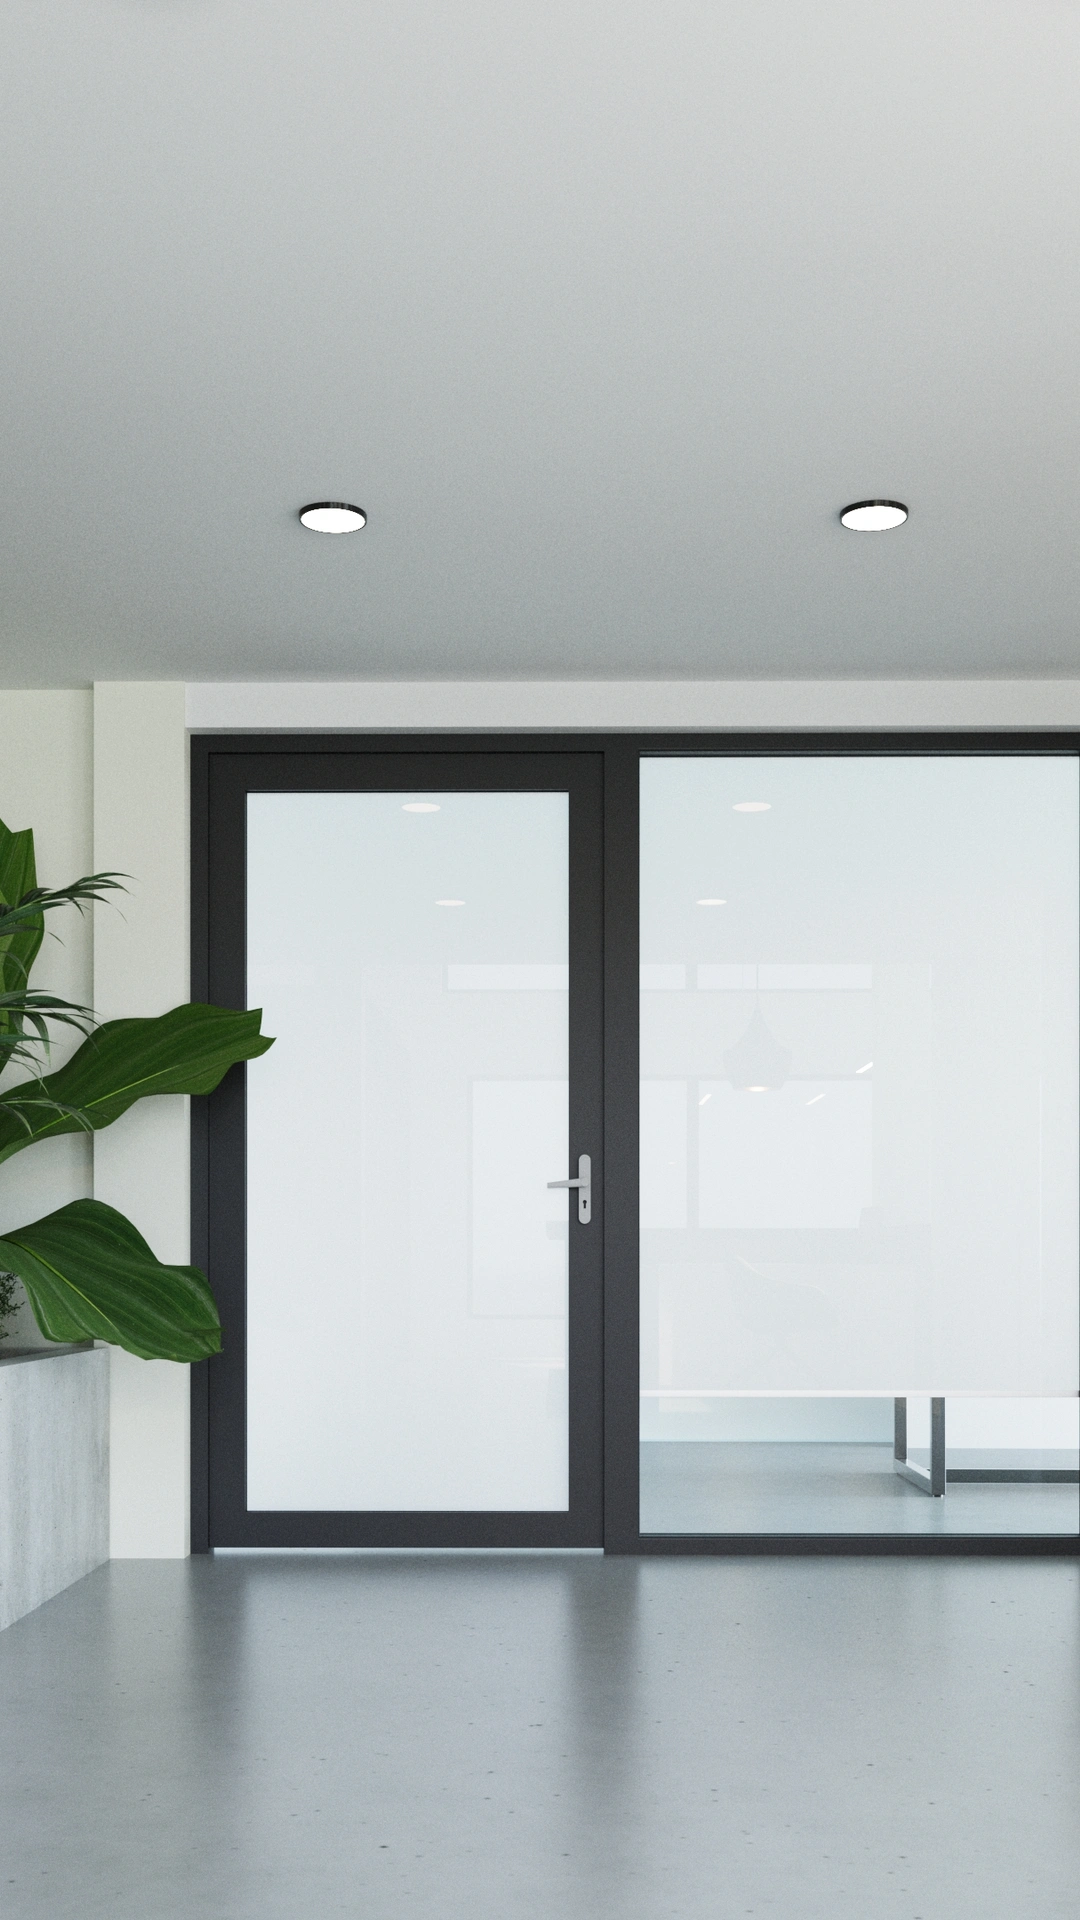
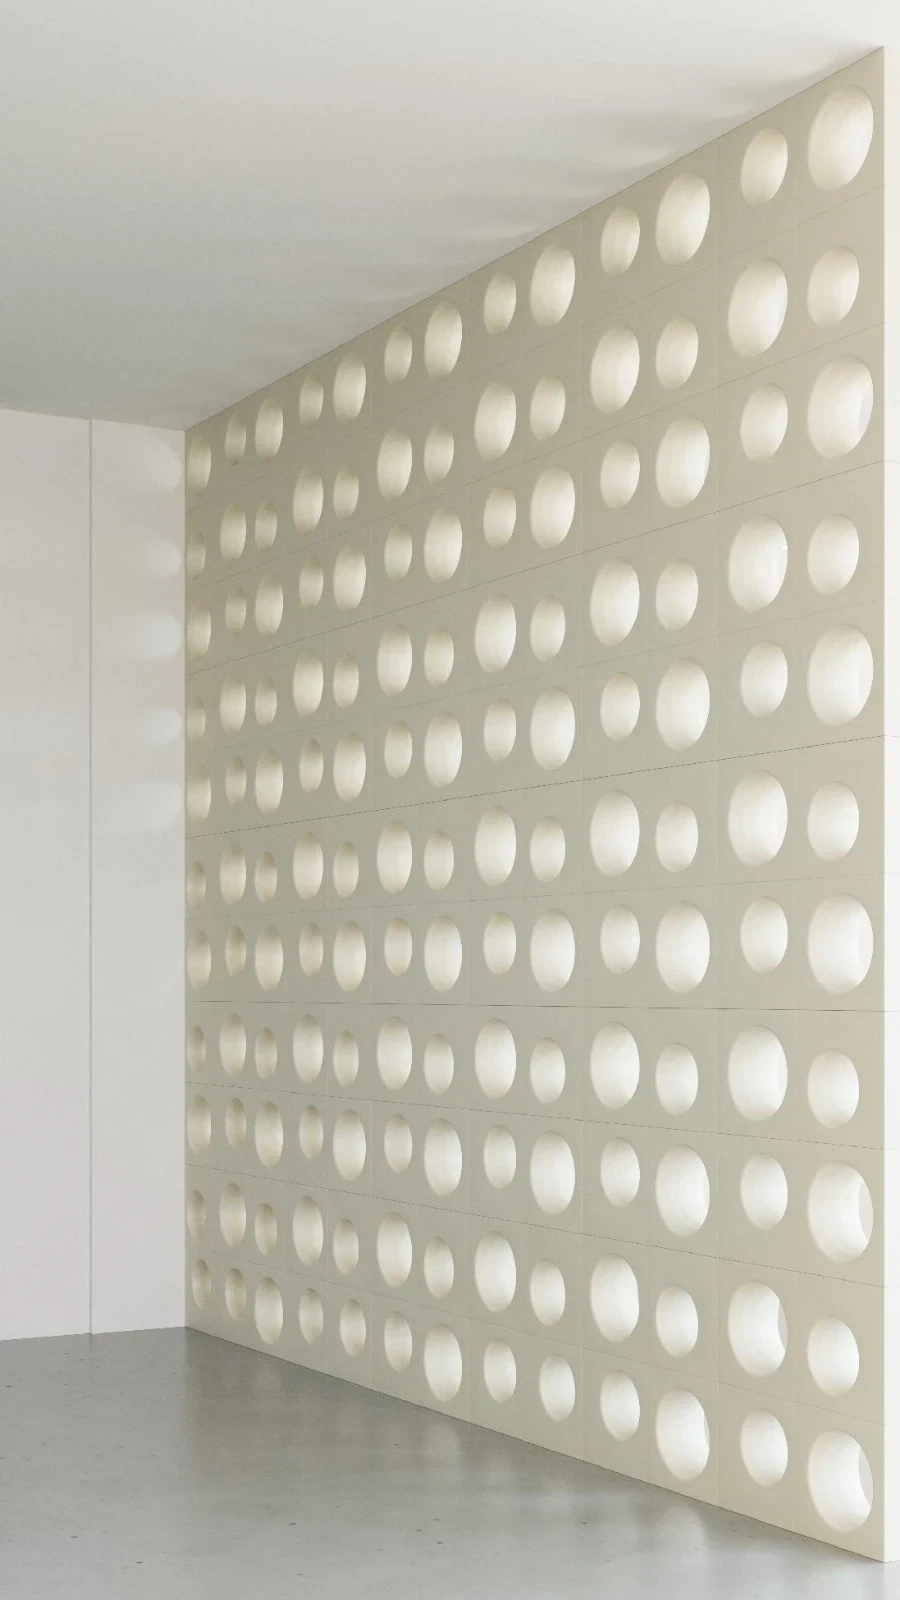
Use the actual vertical photos the user provided for mobile hero slots 2/3
Previous mobile crops for these two were auto-cropped from a source that
no longer existed, looked wrong, and were replaced by the full desktop
landscape photo as a stopgap. The user has now supplied genuine 900x1600
vertical photos of the same two scenes (oficina, rubí) — used here as-is,
unedited, restoring the mobile <source> to point at them directly.

diff --git a/Entrar a la pagina/index.html b/Entrar a la pagina/index.html
@@ -699,9 +699,11 @@
         <img class="hero-media-img is-active" src="assets/img/hero-celosias.webp" alt="Celosías cerámicas Jade Haus Arq." data-hero-slide fetchpriority="high" loading="eager" decoding="sync" width="1600" height="900">
       </picture>
       <picture>
+        <source media="(max-width: 1024px)" srcset="assets/img/hero-celosias-oficina-mobile.webp">
         <img class="hero-media-img" src="assets/img/hero-rubi-living.webp" alt="Celosías cerámicas Jade Haus Arq." data-hero-slide loading="eager" decoding="async" width="1600" height="900">
       </picture>
       <picture>
+        <source media="(max-width: 1024px)" srcset="assets/img/hero-rubi-living-mobile.webp">
         <img class="hero-media-img" src="assets/img/hero-celosias-oficina.webp" alt="Celosías cerámicas Jade Haus Arq." data-hero-slide loading="eager" decoding="async" width="1600" height="900">
       </picture>
       <picture class="hero-desktop-only">

diff --git a/Entrar a la pagina/tools/check-new-vertical-photos.js b/Entrar a la pagina/tools/check-new-vertical-photos.js
@@ -1,0 +1,12 @@
+const sharp = require("sharp");
+const path = require("path");
+
+const DIR = "C:\\Users\\Fede\\Downloads\\fotos-jade-haus";
+const files = ["image-1785799624760.webp", "image-1785799631232.webp"];
+
+(async () => {
+  for (const f of files) {
+    const m = await sharp(path.join(DIR, f)).metadata();
+    console.log(f, m.width + "x" + m.height, "orientation:", m.width > m.height ? "landscape" : "portrait");
+  }
+})();
